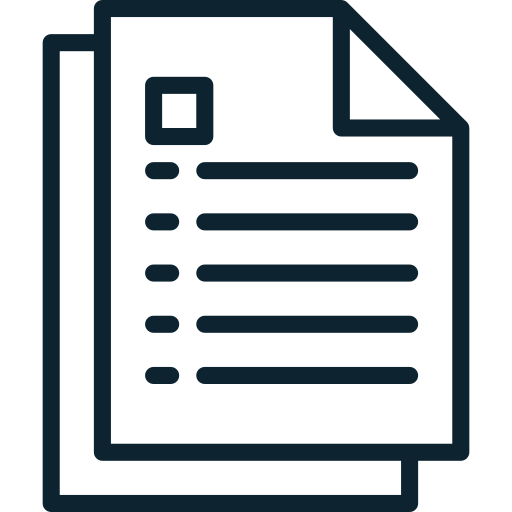
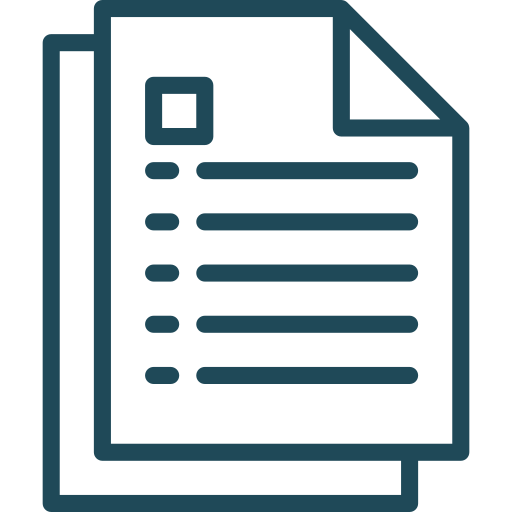
Code Refactored

diff --git a/index.html b/index.html
@@ -57,7 +57,7 @@
             <section class="home" id="home">
                 <div class="home__container container grid">
                     <img
-                        src="assets/img/profile2.png"
+                        src="assets/img/profile.png"
                         alt=""
                         class="home__img"
                     />
@@ -125,7 +125,7 @@
                     class="button button--flex text-sm"
                     style="margin-right: 1rem"
                 >
-                    SEE PROJECTS
+                    See Projects
                 </a>
                 <a
                     href="https://www.linkedin.com/in/arpit-jana/"
@@ -156,10 +156,8 @@
                         </h3>
                         <p class="services__detail">
                             develop robust and efficient RESTful APIs using
-                            NodeJS and ExpressJS, enabling seamless
-                            communication between client and server, and
-                            empowering you to create powerful and scalable web
-                            applications.
+                            NodeJS and ExpressJS, ensuring seamless
+                            communication between client and server.
                         </p>
                     </div>
                     <div class="services__item">
@@ -178,9 +176,9 @@
                         </h3>
                         <p class="services__detail">
                             create comprehensive and user-friendly documentation
-                            for your APIs using tools like Swagger, simplifying
-                            API integration for developers and promoting
-                            seamless collaboration across projects.
+                            for your APIs using tools like Swagger, making it
+                            easier for developers to understand and utilize your
+                            APIs.
                         </p>
                     </div>
                     <div class="services__item">
@@ -198,10 +196,9 @@
                             Server-Side Rendering
                         </h3>
                         <p class="services__detail">
-                            implement server-side rendering with Pug templates,
-                            improving website performance, enhancing search
-                            engine visibility, and delivering faster loading
-                            times for a seamless user experience.
+                            implement server-side rendering using Pug templates,
+                            enhancing website performance and optimizing SEO for
+                            better search engine visibility.
                         </p>
                     </div>
                     <div class="services__item">
@@ -219,11 +216,10 @@
                             Database Management
                         </h3>
                         <p class="services__detail">
-                            efficiently handle and manage databases using
-                            MongoDB, designing and optimizing data storage
-                            structures for smooth and reliable data operations,
-                            ensuring your applications run efficiently and
-                            securely.
+                            efficiently handle and manage databases, utilizing
+                            MongoDB to design and optimize data storage
+                            structures, ensuring smooth and reliable data
+                            operations.
                         </p>
                     </div>
                     <div class="services__item">
@@ -241,10 +237,10 @@
                             User Authentication
                         </h3>
                         <p class="services__detail">
-                            implement secure Google Authentication to protect
-                            user data and ensure authorized access to your
-                            applications. Enhance security, build user trust,
-                            and deliver a seamless authentication experience.
+                            implement secure authentication and authorization
+                            systems using OAuth and Google Authentication,
+                            safeguarding user data and ensuring secure access to
+                            your applications.
                         </p>
                     </div>
                     <div class="services__item">
@@ -262,13 +258,11 @@
                             Payment Gateway Integration
                         </h3>
                         <p class="services__detail">
-                            seamlessly integrate popular payment gateways like
-                            Stripe or PayPal into your applications, enabling
-                            secure and hassle-free online transactions, boosting
-                            customer confidence and driving conversions
+                            integrate popular payment gateways like Stripe or
+                            PayPal to enable secure and seamless online
+                            transactions for your customers.
                         </p>
                     </div>
-                    
                 </div>
             </section>
         </main>

diff --git a/assets/css/services.css b/assets/css/services.css
@@ -1,25 +1,25 @@
 .services__container {
     grid-template-columns: repeat(3, 1fr);
     gap: 1.875rem;
-    opacity: 0.95;
     color: var(--primary-color);
     padding-top: 1rem;
 }
 
 .services__item {
     padding: 2rem 1.5rem 1.5rem 1.5rem;
-    /* text-align: center; */
     box-shadow: #0d24301e 0px 2px 8px 0px;
     border-radius: 0.5rem;
     cursor: pointer;
+    background-color: #f5f6f7;
 }
 
 .services__title {
     margin-bottom: 0.8em;
+    color: var(--primary-color);
 }
 
 .icon__box {
-    border: 1px solid var(--primary-color);
+    border: 2px solid var(--primary-color);
     border-style: dashed;
     width: 82px;
     height: 82px;
@@ -34,7 +34,6 @@
     margin: auto;
 }
 
-
 .services__dot {
     position: absolute;
     left: 0;
@@ -45,8 +44,8 @@
     animation-play-state: paused;
 }
 .services__detail {
-    font-size: var(--fs-base);
-    opacity: 0.65;
+    font-size: 0.95rem;
+    opacity: 0.8;
 }
 
 .services__item:hover .services__dot {
@@ -70,6 +69,5 @@
     border-radius: 50%;
     position: absolute;
     top: 0;
-    left: 12px;
+    left: 10px;
 }
-

diff --git a/assets/css/reusable.css b/assets/css/reusable.css
@@ -37,8 +37,8 @@
     display: inline-block;
     color: white;
     letter-spacing: 0.05rem;
-    padding: 0.45rem 0.6rem;
-    border-radius: 0.2rem;
+    padding: 0.45rem 1rem;
+    border-radius: 100rem;
     transition: 0.3s;
     border: 2px solid var(--primary-color);
 }

diff --git a/assets/css/base.css b/assets/css/base.css
@@ -8,7 +8,8 @@
     --header-height: 3.5rem;
 
     /*=========Colors============*/
-    --primary-color: #0d2430;
+    /* --primary-color: #ff0000; */
+    --primary-color: #1F4958;
     --primary-color-alt: red;
     --linear-gradient: linear-gradient(
         90deg,

diff --git a/assets/css/home.css b/assets/css/home.css
@@ -29,8 +29,8 @@
 }
 
 .home__img {
-    width: 85%;
-    height: 350px;
+    width: 80%;
+    height: 360px;
     object-fit: cover;
     border-radius: 0.3rem;
     transform: translateY(3rem);
